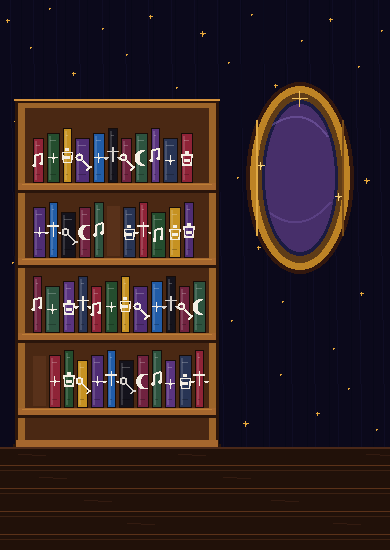
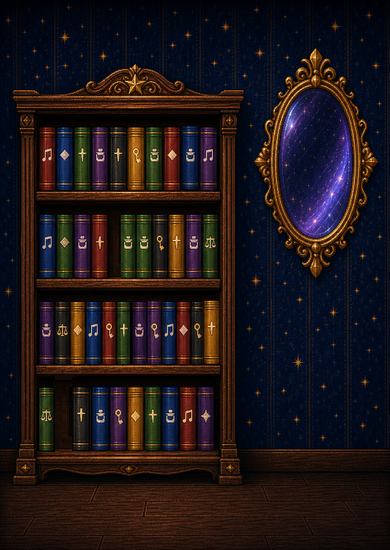
feat: update west wall assets (final version), adjust hitboxes for new layout

diff --git a/engine/scene.js b/engine/scene.js
@@ -51,8 +51,8 @@ function render() {
     html += `<img class="nav-arrow nav-arrow-r" src="assets/ui/arrow-right.png" data-nav="1">`;
     // Overlay book items on west wall (disappear when taken)
     if (gameState.currentRoom === 'room1' && wallName === 'west') {
-      if (!gameState.goldBookTaken) html += `<img class="scene-obj" src="assets/items/book-gold-star.png" style="position:absolute;top:35.7%;left:26.0%;height:11.6%">`;
-      if (!gameState.blueBookTaken) html += `<img class="scene-obj" src="assets/items/book-blue-key.png" style="position:absolute;top:62.9%;left:6.3%;height:11.6%">`;
+      if (!gameState.goldBookTaken) html += `<img class="scene-obj" src="assets/items/book-gold-star.png" style="position:absolute;top:32%;left:29%;height:11.6%">`;
+      if (!gameState.blueBookTaken) html += `<img class="scene-obj" src="assets/items/book-blue-key.png" style="position:absolute;top:70%;left:11%;height:11.5%">`;
     }
     // Engraved text on east wall
     if (gameState.currentRoom === 'room1' && wallName === 'east') {
